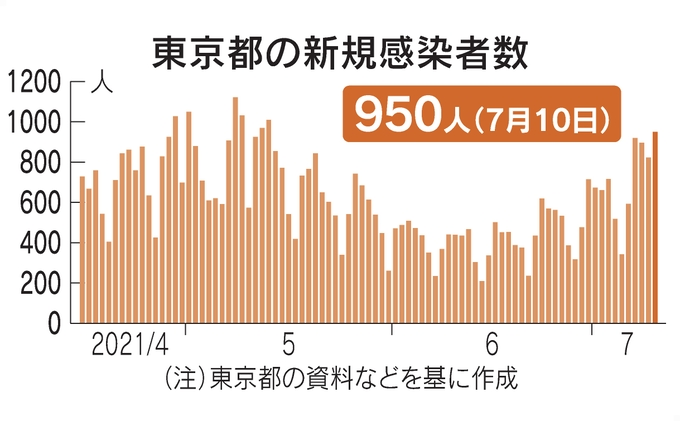
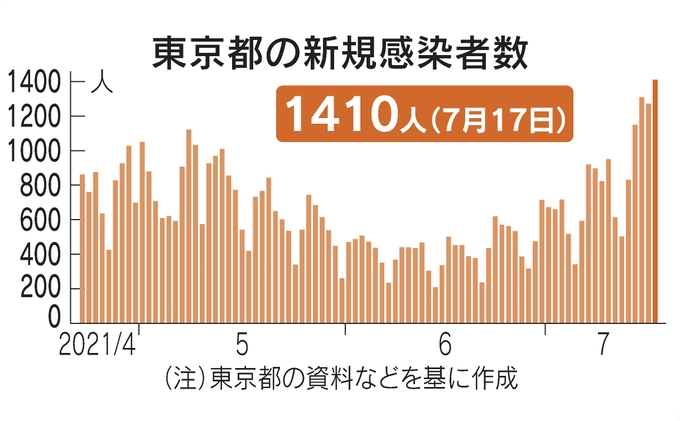
regular update

diff --git a/parts/news.php b/parts/news.php
@@ -46,6 +46,158 @@
         </li>
 
     <hr> -->
+        2021年07月18日
+    
+        <li>
+                <i class="far fa-file-alt"></i>
+                <a href="" target="blank" rel="noopener">
+                </a>
+        </li>
+        <li>
+                <i class="far fa-file-alt"></i>
+                <a href="" target="blank" rel="noopener">
+                </a>
+        </li>
+        <li>
+                <i class="far fa-file-alt"></i>
+                <a href="" target="blank" rel="noopener">
+                </a>
+        </li>
+
+    <hr>
+        2021年07月17日
+    
+        <li>
+                <i class="far fa-file-alt"></i>
+                <a href="https://www.nikkei.com/article/DGXZQOCC171NM0X10C21A7000000/" target="blank" rel="noopener">
+                東京都、新たに1410人感染　7日平均で前週の140.5%</a>
+        </li>
+        <li>
+                <i class="far fa-file-alt"></i>
+                <a href="https://www.nikkei.com/article/DGXZQOUE102870Q1A710C2000000/" target="blank" rel="noopener">
+                40度の熱、激烈な頭痛　接種後に記者襲った「デルタ型」</a>
+        </li>
+        <li>
+                <i class="far fa-file-alt"></i>
+                <a href="https://www.nikkei.com/article/DGXZQOUE171IL0X10C21A7000000/" target="blank" rel="noopener">
+                五輪選手村で初のコロナ陽性　関係者感染、1日で最多</a>
+        </li>
+
+    <hr>
+        2021年07月16日
+    
+        <li>
+                <i class="far fa-file-alt"></i>
+                <a href="https://www.nikkei.com/article/DGXZQOCC160HJ0W1A710C2000000/" target="blank" rel="noopener">
+                東京都、新たに1271人感染　7日平均で前週の137.8%</a>
+        </li>
+        <li>
+                <i class="far fa-file-alt"></i>
+                <a href="https://www.nikkei.com/article/DGXZQOGR15EZD0V10C21A7000000/" target="blank" rel="noopener">
+                スペインのコロナ対策外出制限は違憲　最高裁が判断</a>
+        </li>
+        <li>
+                <i class="far fa-file-alt"></i>
+                <a href="https://www.nikkei.com/article/DGXZQOUA163ER0W1A710C2000000/" target="blank" rel="noopener">
+                ワクチン2回接種、人口の2割超　高齢者1回目は8割到達</a>
+        </li>
+
+    <hr>
+        2021年07月15日
+    
+        <li>
+                <i class="far fa-file-alt"></i>
+                <a href="https://www.nikkei.com/article/DGXZQOCC150HL0V10C21A7000000/" target="blank" rel="noopener">
+                東京都、新たに1308人感染　7日平均で前週の132.9%</a>
+        </li>
+        <li>
+                <i class="far fa-file-alt"></i>
+                <a href="https://www.nikkei.com/article/DGXZQOCC143V60U1A710C2000000/" target="blank" rel="noopener">
+                ワクチン接種予約、7割が停止・制限　主要都市調査</a>
+        </li>
+        <li>
+                <i class="far fa-file-alt"></i>
+                <a href="https://www.nikkei.com/article/DGXZQOUA151CO0V10C21A7000000/" target="blank" rel="noopener">
+                モデルナ製ワクチン、対象12歳以上に引き下げへ　厚労省</a>
+        </li>
+
+    <hr>
+        2021年07月14日
+    
+        <li>
+                <i class="far fa-file-alt"></i>
+                <a href="https://www.nikkei.com/article/DGXZQOCC140H70U1A710C2000000/" target="blank" rel="noopener">
+                東京都、新たに1149人感染　5月の「第4波」ピーク超え</a>
+        </li>
+        <li>
+                <i class="far fa-file-alt"></i>
+                <a href="https://www.nikkei.com/article/DGXZQOUA146E20U1A710C2000000/" target="blank" rel="noopener">
+                2回接種の高齢者、50%超える　7月13日時点</a>
+        </li>
+        <li>
+                <i class="far fa-file-alt"></i>
+                <a href="https://www.nikkei.com/article/DGXZQOUE02C200S1A700C2000000/" target="blank" rel="noopener">
+                コロナ禍・SNS時代の報道　情報の検証重要に　日経・早大・米コロンビア大　共同プロジェクト</a>
+        </li>
+
+    <hr>
+        2021年07月13日
+    
+        <li>
+                <i class="far fa-file-alt"></i>
+                <a href="https://www.nikkei.com/article/DGXZQOCC134QJ0T10C21A7000000/" target="blank" rel="noopener">
+                東京都、新たに830人感染　7日平均で前週の131.3%</a>
+        </li>
+        <li>
+                <i class="far fa-file-alt"></i>
+                <a href="https://www.nikkei.com/article/DGXZQOUA131HQ0T10C21A7000000/" target="blank" rel="noopener">
+                ワクチン証明、仏など十数カ国と交渉 米中は原則対象外</a>
+        </li>
+        <li>
+                <i class="far fa-file-alt"></i>
+                <a href="https://www.nikkei.com/article/DGXZQOUC0943J0Z00C21A7000000/" target="blank" rel="noopener">
+                東京五輪支持の中国、コロナ拡大より気にしていること</a>
+        </li>
+
+    <hr>
+        2021年07月12日
+    
+        <li>
+                <i class="far fa-file-alt"></i>
+                <a href="https://www.nikkei.com/article/DGXZQOCC122TB0S1A710C2000000/" target="blank" rel="noopener">
+                東京都、新たに502人感染　7日平均で前週の129.2%</a>
+        </li>
+        <li>
+                <i class="far fa-file-alt"></i>
+                <a href="https://www.nikkei.com/article/DGXZQOUA111590R10C21A7000000/" target="blank" rel="noopener">
+                東京に緊急事態宣言　発令4度目、変わらぬ朝 沖縄も8月22日まで　首都圏3県と大阪「まん延防止」</a>
+        </li>
+        <li>
+                <i class="far fa-file-alt"></i>
+                <a href="https://www.nikkei.com/article/DGXZQODK073Q30X00C21A7000000/" target="blank" rel="noopener">
+                「コロナ世代」を癒やせるか　精神と経済の傷深く</a>
+        </li>
+
+    <hr>
+        2021年07月11日
+    
+        <li>
+                <i class="far fa-file-alt"></i>
+                <a href="https://www.nikkei.com/article/DGXZQOCC111AB0R10C21A7000000/" target="blank" rel="noopener">
+                東京都、新たに614人感染　7日平均で前週の126.1%</a>
+        </li>
+        <li>
+                <i class="far fa-file-alt"></i>
+                <a href="https://www.nikkei.com/article/DGXZQODE110OI0R10C21A7000000/" target="blank" rel="noopener">
+                ワクチン証明、26日から申請開始　官房長官「渡航用」</a>
+        </li>
+        <li>
+                <i class="far fa-file-alt"></i>
+                <a href="https://www.nikkei.com/article/DGXZQOUA095H40Z00C21A7000000/" target="blank" rel="noopener">
+                経済と両立、試される知恵　コロナ病床上積みも逼迫懸念 東京都12日から4度目の緊急事態</a>
+        </li>
+
+    <hr>
         2021年07月10日
     
         <li>

diff --git a/parts/info.php b/parts/info.php
@@ -4,6 +4,9 @@
 
   <div class="line"> INFO <i class="fas fa-info-circle"></i></div>
   
+  <li>2021年07月18日</li>
+  <div class="info-children"><span><a href="avocado.php">AVOCADO</a> 更新</span></div>
+
   <li>2021年07月10日</li>
   <div class="info-children"><span><a href="avocado.php">AVOCADO</a> 更新</span></div>
 
